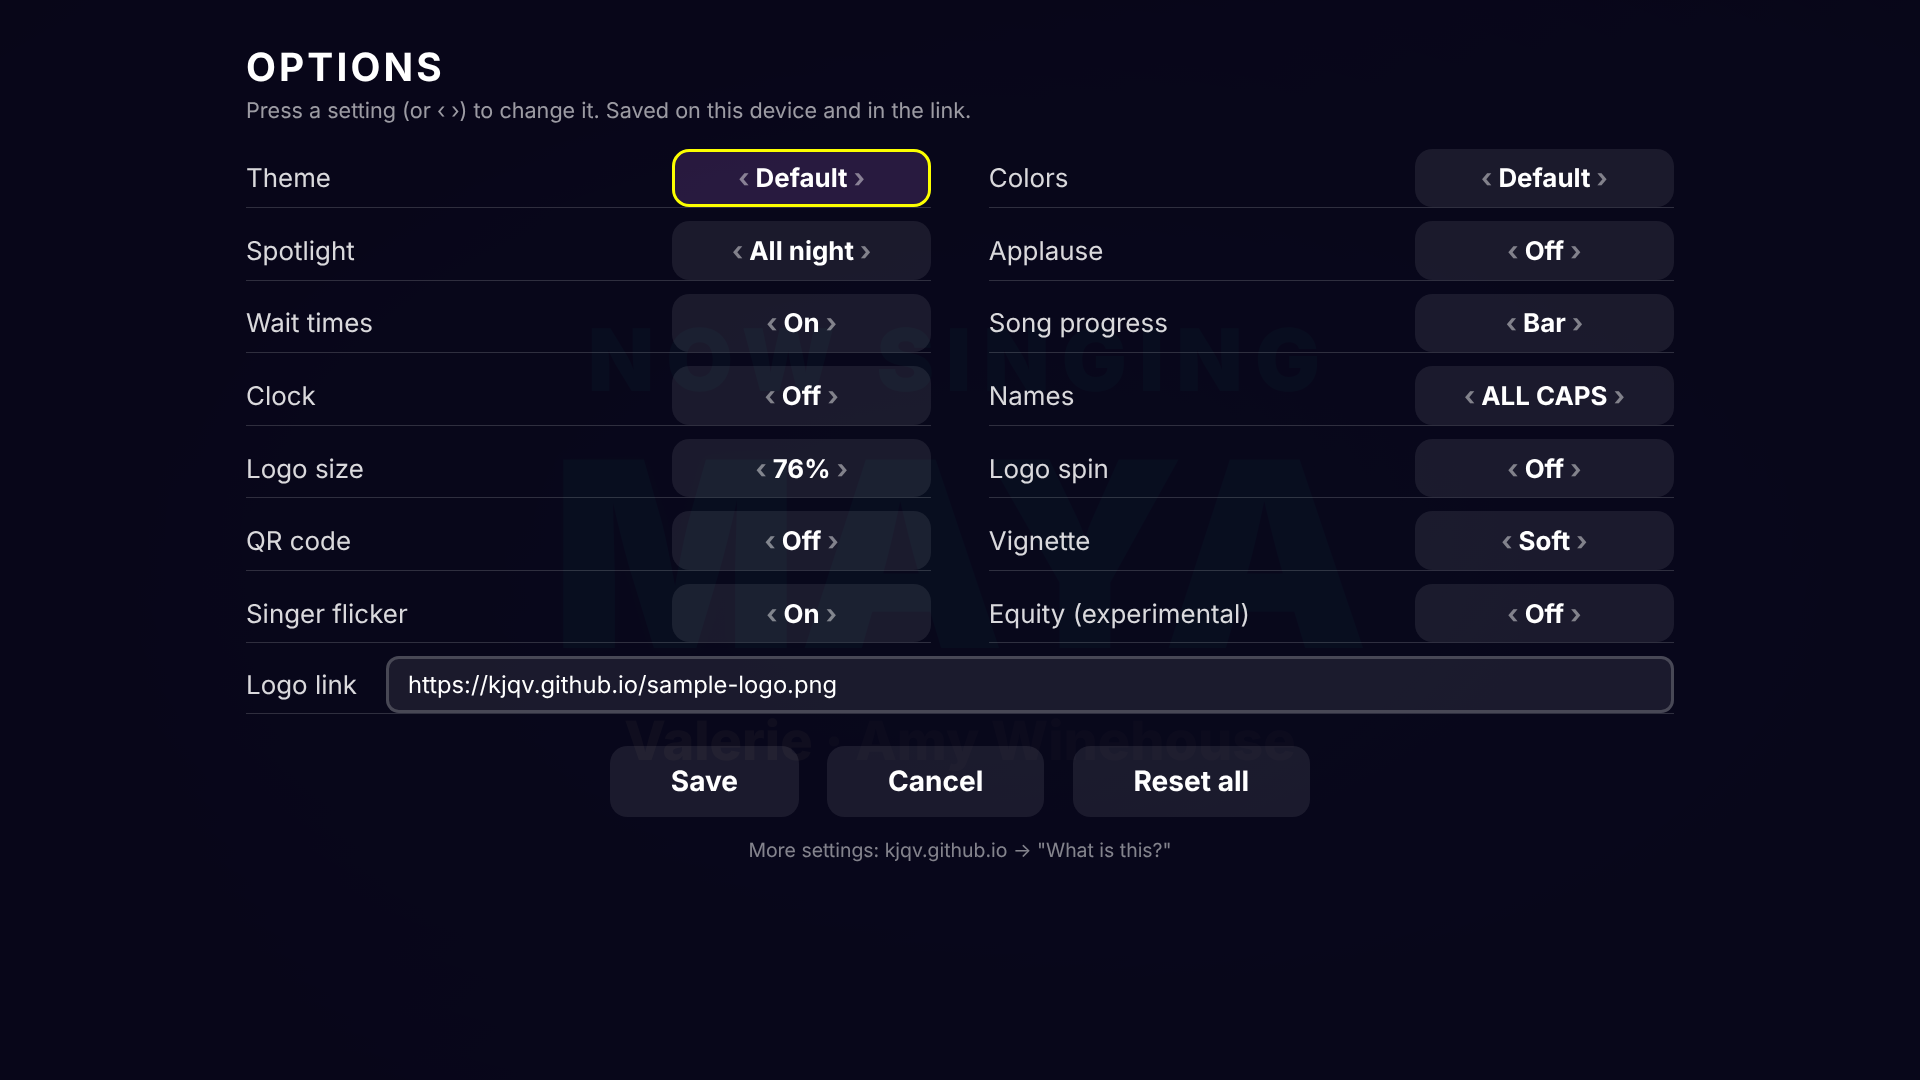
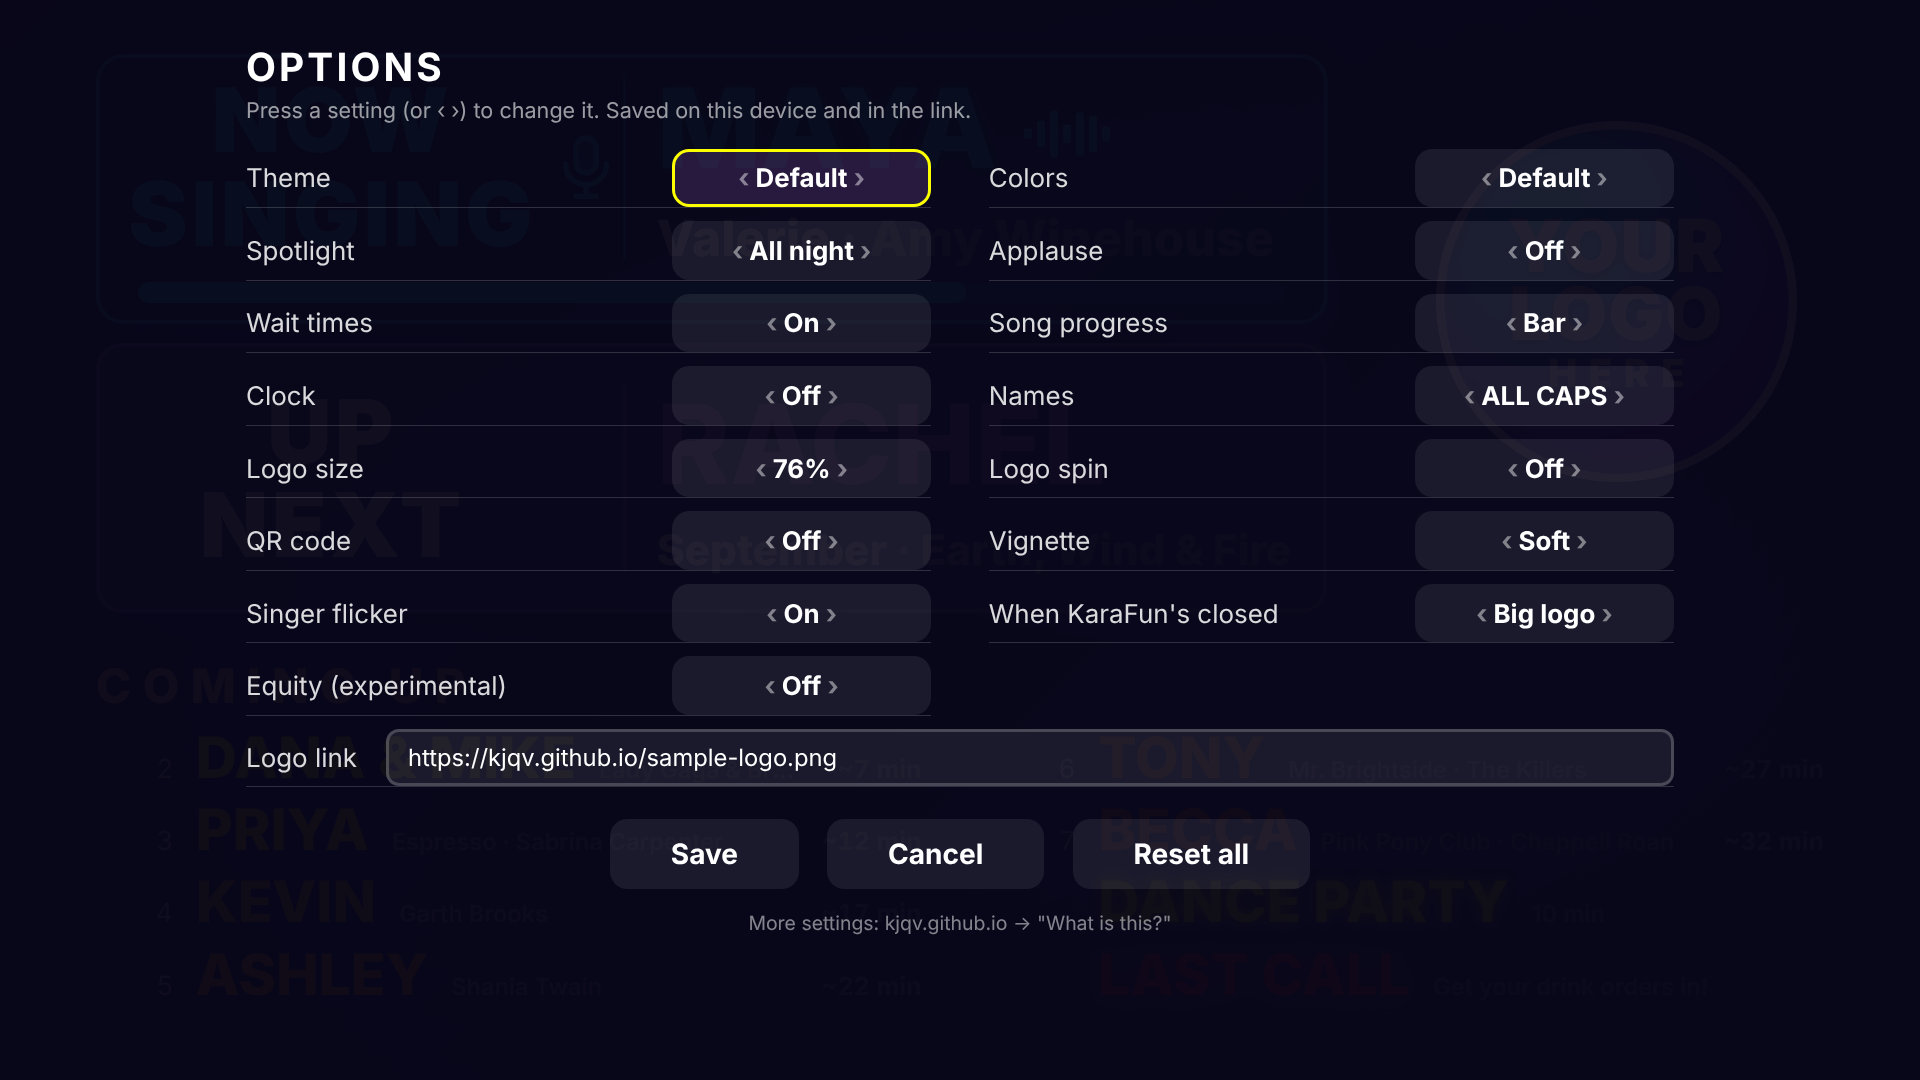
Code screen: smaller Customize button and solid keypad buttons
Claude-Session: https://claude.ai/code/session_01T6WqMGWzKwPbF2TtYgSiwr

diff --git a/index.html b/index.html
@@ -374,8 +374,8 @@
   #setup { align-items: center; justify-content: center; text-align: center; }
   #setup h1 { font-size: 3.6vh; margin: 0 0 1vh; text-transform: uppercase; letter-spacing: .08em; }
   /* Faint KJQV mark behind the code screen */
-  #setupMark { position: absolute; left: 50%; top: 50%; height: 104vh; width: auto; transform: translate(-50%, -50%);
-    opacity: .05; pointer-events: none; z-index: -1; }
+  #setupMark { position: absolute; left: 50%; top: 50%; height: 170vh; width: auto; transform: translate(-50%, -50%);
+    opacity: .018; pointer-events: none; z-index: -1; }
   #setup .brand { font-size: 2.4vh; font-weight: 800; letter-spacing: .3em; color: #ffb347; margin: 0 0 1.4vh; }
   #setup p { font-size: 2.6vh; color: var(--dim); margin: 0 0 3vh; }
   #codeBox { font-size: 8vh; font-weight: 800; letter-spacing: .4em; padding-left: .4em;
@@ -400,7 +400,7 @@
     #pad button { height: 7.6vh; font-size: 3.2vh; }
     #setupMsg { font-size: 1.6vh; min-height: 2.4vh; margin-top: 1.2vh; }
     #about { font-size: 1.4vh; margin-top: 1.2vh; }
-    #setupMark { position: fixed; height: auto; width: 96vw; opacity: .06; }
+    #setupMark { position: fixed; height: auto; width: 190vw; opacity: .018; }
   }
 
   /* Fast taps on the keypad shouldn't double-tap-zoom on phones */
@@ -408,12 +408,13 @@
   html { -webkit-text-size-adjust: 100%; text-size-adjust: 100%; }   /* stop iPhones from enlarging text on their own */
   button { font: inherit; color: var(--fg); background: rgba(255,255,255,.08);
     border: .3vh solid transparent; border-radius: 1.6vh; cursor: pointer; }
-  #pad button { height: 10vh; font-size: 4.4vh; font-weight: 700; }
+  #pad button { height: 10vh; font-size: 4.4vh; font-weight: 700; background: rgba(30,24,80,.92); }
+  #pad button:focus { background: rgba(70,40,140,.95); }
   #pad button.wide { font-size: 2.6vh; }
   #menu button { font-size: 2.8vh; padding: 1.6vh 2.4vw; }
   button:focus { outline: none; border-color: var(--yellow); background: rgba(var(--next),.16); }
   /* ---------- options panel (Customize on the code screen, or Options in the menu) ---------- */
-  #btnOpts { margin-top: 2.2vh; font-size: 2.4vh; padding: 1.2vh 2.4vw; }
+  #btnOpts { margin-top: 1.6vh; font-size: 1.7vh; padding: .7vh 1.6vw; opacity: .8; }
   #opts { position: fixed; inset: 0; z-index: 9500; background: rgba(8,6,24,.97); color: #fff; overflow-y: auto;
     font-family: system-ui, -apple-system, "Segoe UI", Roboto, Helvetica, Arial, sans-serif; text-transform: none; letter-spacing: 0; }
   #opts .in { max-width: 150vh; margin: 0 auto; padding: 4vh 5vw; }
